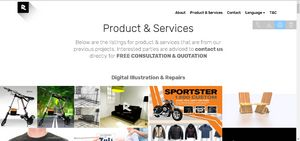
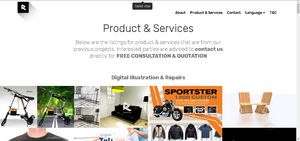
update

Changed region(s): [[0.84, 0.1418, 0.99, 0.227], [0.42, 0.0, 0.51, 0.0851]]

diff --git a/services.html b/services.html
@@ -1,15 +1,13 @@
 <!DOCTYPE html>
-<html  >
-<head>
-  <!-- Site made with Mobirise Website Builder v4.10.0, https://mobirise.com -->
+<html><head>
   <meta charset="UTF-8">
   <meta http-equiv="X-UA-Compatible" content="IE=edge">
   <meta name="generator" content="Mobirise v4.10.0, mobirise.com">
   <meta name="viewport" content="width=device-width, initial-scale=1, minimum-scale=1">
   <link rel="shortcut icon" href="assets/images/new-favicon-1-124x124-124x124.png" type="image/x-icon">
-  <meta name="description" content="listings for product and services that are from our previous projects. Interested parties are adviced to contact us directly for FREE CONSULTATION & QUOTATION. Visit our sponsors such as shopee lazada uniqlo zaful Zalora MY GoDaddy.com Kaspersky Anti Virus MY Trivago MY traveloka  Malaysia Airlines printcious and wedding official website for the latest promotion discounts and updates">
+  <meta name="description" content="listings for product and services that are from our previous projects. Interested parties are adviced to contact us directly for FREE CONSULTATION &amp; QUOTATION. Visit our sponsors such as shopee lazada uniqlo zaful Zalora MY GoDaddy.com Kaspersky Anti Virus MY Trivago MY traveloka  Malaysia Airlines printcious and wedding official website for the latest promotion discounts and updates">
   
-  <title>rekalusi.com | Product & Services</title>
+  <title>rekalusi.com | Product &amp; Services</title>
   <link rel="stylesheet" href="assets/web/assets/mobirise-icons/mobirise-icons.css">
   <link rel="stylesheet" href="assets/tether/tether.min.css">
   <link rel="stylesheet" href="assets/soundcloud-plugin/style.css">
@@ -21,15 +19,15 @@
   <link rel="stylesheet" href="assets/theme/css/style.css">
   <link rel="stylesheet" href="assets/gallery/style.css">
   <link rel="stylesheet" href="assets/mobirise/css/mbr-additional.css" type="text/css">
-  <script type="text/javascript" src="//app.involve.asia/magic/29228/auto.js"></script>
+  <script type="text/javascript" id="www-widgetapi-script" src="https://s.ytimg.com/yts/jsbin/www-widgetapi-vflPBjLfx/www-widgetapi.js" async=""></script><script type="text/javascript" async="" src="https://www.google-analytics.com/analytics.js"></script><script src="https://www.youtube.com/iframe_api"></script><script type="text/javascript" src="//app.involve.asia/magic/29228/auto.js"></script>
   
   
 </head>
-<body>
+<body><section id="top-1" class="engine"><a href="https://mobirise.ws">Mobirise Website Builder</a> v4.10.0</section>
 
 <!-- Google Analytics -->
 <!-- Global site tag (gtag.js) - Google Analytics -->
-<script async src="https://www.googletagmanager.com/gtag/js?id=UA-102747451-1"></script>
+<script async="" src="https://www.googletagmanager.com/gtag/js?id=UA-102747451-1"></script>
 <script>
   window.dataLayer = window.dataLayer || [];
   function gtag(){dataLayer.push(arguments);}
@@ -67,7 +65,7 @@
         <div class="collapse navbar-collapse" id="navbarSupportedContent">
             <ul class="navbar-nav nav-dropdown nav-right" data-app-modern-menu="true"><li class="nav-item">
                     <a class="nav-link link text-black display-4" href="about.html">About</a>
-                </li><li class="nav-item"><a class="nav-link link text-black display-4" href="services.html" aria-expanded="true">Product &amp; Services</a></li>
+                </li><li class="nav-item"><a class="nav-link link text-black display-4" href="services.html" aria-expanded="false">Product &amp; Services</a></li>
                 <li class="nav-item"><a class="nav-link link text-black display-4" href="contact.html" aria-expanded="false">Contact</a></li><li class="nav-item dropdown"><a class="nav-link link text-black dropdown-toggle display-4" href="contact.html" aria-expanded="false" data-toggle="dropdown-submenu">Language</a><div class="dropdown-menu"><a class="text-black dropdown-item display-4" href="http://rekalusi.com/RekalusiMY/" aria-expanded="false">Malay</a><a class="text-black dropdown-item display-4" href="index.html" aria-expanded="false">English</a></div></li><li class="nav-item"><a class="nav-link link text-black display-4" href="tnc.html" aria-expanded="false">T&amp;C</a></li></ul>
             
         </div>
@@ -114,7 +112,7 @@
     
 
     <div>
-        <div><!-- Filter --><!-- Gallery --><div class="mbr-gallery-row"><div class="mbr-gallery-layout-default"><div><div><div class="mbr-gallery-item mbr-gallery-item--p0" data-video-url="false" data-tags="Awesome"><div href="#lb-gallery3-60" data-slide-to="0" data-toggle="modal"><img src="assets/images/touchup-01-01-2-800x450-800x450.jpg" alt="" title=""><span class="icon-focus"></span></div></div><div class="mbr-gallery-item mbr-gallery-item--p0" data-video-url="false" data-tags="Responsive"><div href="#lb-gallery3-60" data-slide-to="1" data-toggle="modal"><img src="assets/images/3d-room-visual-2-1280x720-800x450.jpg" alt="" title=""><span class="icon-focus"></span></div></div><div class="mbr-gallery-item mbr-gallery-item--p0" data-video-url="false" data-tags="Awesome"><div href="#lb-gallery3-60" data-slide-to="2" data-toggle="modal"><img src="assets/images/publishing-2-1276x1789-800x1122.jpg" alt="" title=""><span class="icon-focus"></span></div></div><div class="mbr-gallery-item mbr-gallery-item--p0" data-video-url="false" data-tags="Creative"><div href="#lb-gallery3-60" data-slide-to="3" data-toggle="modal"><img src="assets/images/3d-chair-1-1280x720-800x450.jpg" alt="" title=""><span class="icon-focus"></span></div></div><div class="mbr-gallery-item mbr-gallery-item--p0" data-video-url="false" data-tags="Awesome"><div href="#lb-gallery3-60" data-slide-to="4" data-toggle="modal"><img src="assets/images/branding-1-540x810-540x810.jpg" alt="" title=""><span class="icon-focus"></span></div></div><div class="mbr-gallery-item mbr-gallery-item--p0" data-video-url="false" data-tags="Awesome"><div href="#lb-gallery3-60" data-slide-to="5" data-toggle="modal"><img src="assets/images/landing-cover-2-2000x1125-800x450.jpg" alt="" title=""><span class="icon-focus"></span></div></div><div class="mbr-gallery-item mbr-gallery-item--p0" data-video-url="false" data-tags="Animated"><div href="#lb-gallery3-60" data-slide-to="6" data-toggle="modal"><img src="assets/images/bvh-fb-1-375x375-375x375.jpg" alt="" title=""><span class="icon-focus"></span></div></div><div class="mbr-gallery-item mbr-gallery-item--p0" data-video-url="false" data-tags="Animated"><div href="#lb-gallery3-60" data-slide-to="7" data-toggle="modal"><img src="assets/images/nikon-1-600x337-600x337.jpg" alt="" title=""><span class="icon-focus"></span></div></div><div class="mbr-gallery-item mbr-gallery-item--p0" data-video-url="false" data-tags="Awesome"><div href="#lb-gallery3-60" data-slide-to="8" data-toggle="modal"><img src="assets/images/clifton-off-white-plain-women-t-shirt-aaa00008651-55-2-1756x2500-800x1139.jpg" alt="" title=""><span class="icon-focus"></span></div></div><div class="mbr-gallery-item mbr-gallery-item--p0" data-video-url="false" data-tags="Awesome"><div href="#lb-gallery3-60" data-slide-to="9" data-toggle="modal"><img src="assets/images/flyers-copy-1-595x842-595x842.jpg" alt="" title=""><span class="icon-focus"></span></div></div><div class="mbr-gallery-item mbr-gallery-item--p0" data-video-url="false" data-tags="Responsive"><div href="#lb-gallery3-60" data-slide-to="10" data-toggle="modal"><img src="assets/images/logo-draft-2-2000x1125-800x450.jpg" alt="" title=""><span class="icon-focus"></span></div></div><div class="mbr-gallery-item mbr-gallery-item--p0" data-video-url="false" data-tags="Awesome"><div href="#lb-gallery3-60" data-slide-to="11" data-toggle="modal"><img src="assets/images/page-3-800x1132-800x1132.jpg" alt="" title=""><span class="icon-focus"></span></div></div><div class="mbr-gallery-item mbr-gallery-item--p0" data-video-url="false" data-tags="Awesome"><div href="#lb-gallery3-60" data-slide-to="12" data-toggle="modal"><img src="assets/images/logo-idea2-2-596x842-596x842.jpg" alt="" title=""><span class="icon-focus"></span></div></div><div class="mbr-gallery-item mbr-gallery-item--p0" data-video-url="false" data-tags="Awesome"><div href="#lb-gallery3-60" data-slide-to="13" data-toggle="modal"><img src="assets/images/logo-2-1500x1500-800x800.jpg" alt="" title=""><span class="icon-focus"></span></div></div><div class="mbr-gallery-item mbr-gallery-item--p0" data-video-url="false" data-tags="Awesome"><div href="#lb-gallery3-60" data-slide-to="14" data-toggle="modal"><img src="assets/images/liquidart-2-2000x2000-800x504.jpg" alt="" title=""><span class="icon-focus"></span></div></div><div class="mbr-gallery-item mbr-gallery-item--p0" data-video-url="false" data-tags="Awesome"><div href="#lb-gallery3-60" data-slide-to="15" data-toggle="modal"><img src="assets/images/all-flavour-visual-2-721x541-721x541.jpg" alt="" title=""><span class="icon-focus"></span></div></div><div class="mbr-gallery-item mbr-gallery-item--p0" data-video-url="false" data-tags="Awesome"><div href="#lb-gallery3-60" data-slide-to="16" data-toggle="modal"><img src="assets/images/barelang-logo-2-208x208-208x208.jpg" alt="" title=""><span class="icon-focus"></span></div></div><div class="mbr-gallery-item mbr-gallery-item--p0" data-video-url="false" data-tags="Awesome"><div href="#lb-gallery3-60" data-slide-to="17" data-toggle="modal"><img src="assets/images/logo-idea-1-2000x2000-800x800.jpg" alt="" title=""><span class="icon-focus"></span></div></div></div></div><div class="clearfix"></div></div></div><!-- Lightbox --><div data-app-prevent-settings="" class="mbr-slider modal fade carousel slide" tabindex="-1" data-keyboard="true" data-interval="false" id="lb-gallery3-60"><div class="modal-dialog"><div class="modal-content"><div class="modal-body"><div class="carousel-inner"><div class="carousel-item"><img src="assets/images/touchup-01-01-2-800x450.jpg" alt="" title=""></div><div class="carousel-item"><img src="assets/images/3d-room-visual-2-1280x720.jpg" alt="" title=""></div><div class="carousel-item"><img src="assets/images/publishing-2-1276x1789.jpg" alt="" title=""></div><div class="carousel-item"><img src="assets/images/3d-chair-1-1280x720.jpg" alt="" title=""></div><div class="carousel-item"><img src="assets/images/branding-1-540x810.jpg" alt="" title=""></div><div class="carousel-item"><img src="assets/images/landing-cover-2-2000x1125.jpg" alt="" title=""></div><div class="carousel-item"><img src="assets/images/bvh-fb-1-375x375.jpg" alt="" title=""></div><div class="carousel-item"><img src="assets/images/nikon-1-600x337.jpg" alt="" title=""></div><div class="carousel-item"><img src="assets/images/clifton-off-white-plain-women-t-shirt-aaa00008651-55-2-1756x2500.jpg" alt="" title=""></div><div class="carousel-item"><img src="assets/images/flyers-copy-1-595x842.jpg" alt="" title=""></div><div class="carousel-item"><img src="assets/images/logo-draft-2-2000x1125.jpg" alt="" title=""></div><div class="carousel-item"><img src="assets/images/page-3-800x1132.jpg" alt="" title=""></div><div class="carousel-item"><img src="assets/images/logo-idea2-2-596x842.jpg" alt="" title=""></div><div class="carousel-item"><img src="assets/images/logo-2-1500x1500.jpg" alt="" title=""></div><div class="carousel-item"><img src="assets/images/liquidart-2-2000x2000.jpg" alt="" title=""></div><div class="carousel-item"><img src="assets/images/all-flavour-visual-2-721x541.jpg" alt="" title=""></div><div class="carousel-item"><img src="assets/images/barelang-logo-2-208x208.jpg" alt="" title=""></div><div class="carousel-item active"><img src="assets/images/logo-idea-1-2000x2000.jpg" alt="" title=""></div></div><a class="carousel-control carousel-control-prev" role="button" data-slide="prev" href="#lb-gallery3-60"><span class="mbri-left mbr-iconfont" aria-hidden="true"></span><span class="sr-only">Previous</span></a><a class="carousel-control carousel-control-next" role="button" data-slide="next" href="#lb-gallery3-60"><span class="mbri-right mbr-iconfont" aria-hidden="true"></span><span class="sr-only">Next</span></a><a class="close" href="#" role="button" data-dismiss="modal"><span class="sr-only">Close</span></a></div></div></div></div></div>
+        <div><!-- Filter --><!-- Gallery --><div class="mbr-gallery-row" style="position: relative; height: 2344.56px;"><div class="mbr-gallery-layout-default"><div><div><div class="mbr-gallery-item mbr-gallery-item--p0" data-video-url="false" data-tags="Awesome" style="position: absolute; left: 0%; top: 0px;"><div href="#lb-gallery3-60" data-slide-to="0" data-toggle="modal"><img src="assets/images/touchup-01-01-2-800x450-800x450.jpg" alt="" title=""><span class="icon-focus"></span></div></div><div class="mbr-gallery-item mbr-gallery-item--p0" data-video-url="false" data-tags="Responsive" style="position: absolute; left: 49.9044%; top: 0px;"><div href="#lb-gallery3-60" data-slide-to="1" data-toggle="modal"><img src="assets/images/3d-room-visual-2-1280x720-800x450.jpg" alt="" title=""><span class="icon-focus"></span></div></div><div class="mbr-gallery-item mbr-gallery-item--p0" data-video-url="false" data-tags="Awesome" style="position: absolute; left: 0%; top: 147px;"><div href="#lb-gallery3-60" data-slide-to="2" data-toggle="modal"><img src="assets/images/publishing-2-1276x1789-800x1122.jpg" alt="" title=""><span class="icon-focus"></span></div></div><div class="mbr-gallery-item mbr-gallery-item--p0" data-video-url="false" data-tags="Creative" style="position: absolute; left: 49.9044%; top: 147px;"><div href="#lb-gallery3-60" data-slide-to="3" data-toggle="modal"><img src="assets/images/3d-chair-1-1280x720-800x450.jpg" alt="" title=""><span class="icon-focus"></span></div></div><div class="mbr-gallery-item mbr-gallery-item--p0" data-video-url="false" data-tags="Awesome" style="position: absolute; left: 49.9044%; top: 294px;"><div href="#lb-gallery3-60" data-slide-to="4" data-toggle="modal"><img src="assets/images/branding-1-540x810-540x810.jpg" alt="" title=""><span class="icon-focus"></span></div></div><div class="mbr-gallery-item mbr-gallery-item--p0" data-video-url="false" data-tags="Awesome" style="position: absolute; left: 0%; top: 513px;"><div href="#lb-gallery3-60" data-slide-to="5" data-toggle="modal"><img src="assets/images/landing-cover-2-2000x1125-800x450.jpg" alt="" title=""><span class="icon-focus"></span></div></div><div class="mbr-gallery-item mbr-gallery-item--p0" data-video-url="false" data-tags="Animated" style="position: absolute; left: 0%; top: 660px;"><div href="#lb-gallery3-60" data-slide-to="6" data-toggle="modal"><img src="assets/images/bvh-fb-1-375x375-375x375.jpg" alt="" title=""><span class="icon-focus"></span></div></div><div class="mbr-gallery-item mbr-gallery-item--p0" data-video-url="false" data-tags="Animated" style="position: absolute; left: 49.9044%; top: 686px;"><div href="#lb-gallery3-60" data-slide-to="7" data-toggle="modal"><img src="assets/images/nikon-1-600x337-600x337.jpg" alt="" title=""><span class="icon-focus"></span></div></div><div class="mbr-gallery-item mbr-gallery-item--p0" data-video-url="false" data-tags="Awesome" style="position: absolute; left: 49.9044%; top: 833px;"><div href="#lb-gallery3-60" data-slide-to="8" data-toggle="modal"><img src="assets/images/clifton-off-white-plain-women-t-shirt-aaa00008651-55-2-1756x2500-800x1139.jpg" alt="" title=""><span class="icon-focus"></span></div></div><div class="mbr-gallery-item mbr-gallery-item--p0" data-video-url="false" data-tags="Awesome" style="position: absolute; left: 0%; top: 922px;"><div href="#lb-gallery3-60" data-slide-to="9" data-toggle="modal"><img src="assets/images/flyers-copy-1-595x842-595x842.jpg" alt="" title=""><span class="icon-focus"></span></div></div><div class="mbr-gallery-item mbr-gallery-item--p0" data-video-url="false" data-tags="Responsive" style="position: absolute; left: 49.9044%; top: 1205px;"><div href="#lb-gallery3-60" data-slide-to="10" data-toggle="modal"><img src="assets/images/logo-draft-2-2000x1125-800x450.jpg" alt="" title=""><span class="icon-focus"></span></div></div><div class="mbr-gallery-item mbr-gallery-item--p0" data-video-url="false" data-tags="Awesome" style="position: absolute; left: 0%; top: 1292px;"><div href="#lb-gallery3-60" data-slide-to="11" data-toggle="modal"><img src="assets/images/page-3-800x1132-800x1132.jpg" alt="" title=""><span class="icon-focus"></span></div></div><div class="mbr-gallery-item mbr-gallery-item--p0" data-video-url="false" data-tags="Awesome" style="position: absolute; left: 49.9044%; top: 1352px;"><div href="#lb-gallery3-60" data-slide-to="12" data-toggle="modal"><img src="assets/images/logo-idea2-2-596x842-596x842.jpg" alt="" title=""><span class="icon-focus"></span></div></div><div class="mbr-gallery-item mbr-gallery-item--p0" data-video-url="false" data-tags="Awesome" style="position: absolute; left: 0%; top: 1662px;"><div href="#lb-gallery3-60" data-slide-to="13" data-toggle="modal"><img src="assets/images/logo-2-1500x1500-800x800.jpg" alt="" title=""><span class="icon-focus"></span></div></div><div class="mbr-gallery-item mbr-gallery-item--p0" data-video-url="false" data-tags="Awesome" style="position: absolute; left: 49.9044%; top: 1722px;"><div href="#lb-gallery3-60" data-slide-to="14" data-toggle="modal"><img src="assets/images/liquidart-2-2000x2000-800x504.jpg" alt="" title=""><span class="icon-focus"></span></div></div><div class="mbr-gallery-item mbr-gallery-item--p0" data-video-url="false" data-tags="Awesome" style="position: absolute; left: 49.9044%; top: 1886px;"><div href="#lb-gallery3-60" data-slide-to="15" data-toggle="modal"><img src="assets/images/all-flavour-visual-2-721x541-721x541.jpg" alt="" title=""><span class="icon-focus"></span></div></div><div class="mbr-gallery-item mbr-gallery-item--p0" data-video-url="false" data-tags="Awesome" style="position: absolute; left: 0%; top: 1924px;"><div href="#lb-gallery3-60" data-slide-to="16" data-toggle="modal"><img src="assets/images/barelang-logo-2-208x208-208x208.jpg" alt="" title=""><span class="icon-focus"></span></div></div><div class="mbr-gallery-item mbr-gallery-item--p0" data-video-url="false" data-tags="Awesome" style="position: absolute; left: 49.9044%; top: 2083px;"><div href="#lb-gallery3-60" data-slide-to="17" data-toggle="modal"><img src="assets/images/logo-idea-1-2000x2000-800x800.jpg" alt="" title=""><span class="icon-focus"></span></div></div></div></div><div class="clearfix"></div></div></div><!-- Lightbox --><div data-app-prevent-settings="" class="mbr-slider modal fade carousel slide" tabindex="-1" data-keyboard="true" data-interval="false" id="lb-gallery3-60"><div class="modal-dialog"><div class="modal-content"><div class="modal-body"><div class="carousel-inner"><div class="carousel-item"><img src="assets/images/touchup-01-01-2-800x450.jpg" alt="" title=""></div><div class="carousel-item"><img src="assets/images/3d-room-visual-2-1280x720.jpg" alt="" title=""></div><div class="carousel-item"><img src="assets/images/publishing-2-1276x1789.jpg" alt="" title=""></div><div class="carousel-item"><img src="assets/images/3d-chair-1-1280x720.jpg" alt="" title=""></div><div class="carousel-item"><img src="assets/images/branding-1-540x810.jpg" alt="" title=""></div><div class="carousel-item"><img src="assets/images/landing-cover-2-2000x1125.jpg" alt="" title=""></div><div class="carousel-item"><img src="assets/images/bvh-fb-1-375x375.jpg" alt="" title=""></div><div class="carousel-item"><img src="assets/images/nikon-1-600x337.jpg" alt="" title=""></div><div class="carousel-item"><img src="assets/images/clifton-off-white-plain-women-t-shirt-aaa00008651-55-2-1756x2500.jpg" alt="" title=""></div><div class="carousel-item"><img src="assets/images/flyers-copy-1-595x842.jpg" alt="" title=""></div><div class="carousel-item"><img src="assets/images/logo-draft-2-2000x1125.jpg" alt="" title=""></div><div class="carousel-item"><img src="assets/images/page-3-800x1132.jpg" alt="" title=""></div><div class="carousel-item"><img src="assets/images/logo-idea2-2-596x842.jpg" alt="" title=""></div><div class="carousel-item"><img src="assets/images/logo-2-1500x1500.jpg" alt="" title=""></div><div class="carousel-item"><img src="assets/images/liquidart-2-2000x2000.jpg" alt="" title=""></div><div class="carousel-item"><img src="assets/images/all-flavour-visual-2-721x541.jpg" alt="" title=""></div><div class="carousel-item"><img src="assets/images/barelang-logo-2-208x208.jpg" alt="" title=""></div><div class="carousel-item active"><img src="assets/images/logo-idea-1-2000x2000.jpg" alt="" title=""></div></div><a class="carousel-control carousel-control-prev" role="button" data-slide="prev" href="#lb-gallery3-60"><span class="mbri-left mbr-iconfont" aria-hidden="true"></span><span class="sr-only">Previous</span></a><a class="carousel-control carousel-control-next" role="button" data-slide="next" href="#lb-gallery3-60"><span class="mbri-right mbr-iconfont" aria-hidden="true"></span><span class="sr-only">Next</span></a><a class="close" href="#" role="button" data-dismiss="modal"><span class="sr-only">Close</span></a></div></div></div></div></div>
     </div>
 
 </section>
@@ -145,7 +143,7 @@
     
     <figure class="mbr-figure align-center">
         <div class="video-block" style="width: 80%;">
-            <div><iframe class="mbr-embedded-video" src="https://www.youtube.com/embed/UOQKNS8fYWo?rel=0&amp;amp;showinfo=0&amp;autoplay=0&amp;loop=0" width="1280" height="720" frameborder="0" allowfullscreen></iframe></div>
+            <div><iframe class="mbr-embedded-video" src="https://www.youtube.com/embed/UOQKNS8fYWo?rel=0&amp;amp;showinfo=0&amp;autoplay=0&amp;loop=0" width="1280" height="720" frameborder="0" allowfullscreen="" style="height: 294.188px;"></iframe></div>
         </div>
     </figure>
 </section>
@@ -156,7 +154,7 @@
     
     <figure class="mbr-figure align-center">
         <div class="video-block" style="width: 100%;">
-            <div><iframe class="mbr-embedded-video" src="https://www.youtube.com/embed/F_SyrGarvwQ?rel=0&amp;amp;showinfo=0&amp;autoplay=0&amp;loop=0" width="1280" height="720" frameborder="0" allowfullscreen></iframe></div>
+            <div><iframe class="mbr-embedded-video" src="https://www.youtube.com/embed/F_SyrGarvwQ?rel=0&amp;amp;showinfo=0&amp;autoplay=0&amp;loop=0" width="1280" height="720" frameborder="0" allowfullscreen="" style="height: 294.188px;"></iframe></div>
         </div>
     </figure>
 </section>
@@ -167,7 +165,7 @@
     
     <figure class="mbr-figure align-center">
         <div class="video-block" style="width: 100%;">
-            <div><iframe class="mbr-embedded-video" src="https://www.youtube.com/embed/DQ_bw5p8mw8?rel=0&amp;amp;showinfo=0&amp;autoplay=0&amp;loop=0" width="1280" height="720" frameborder="0" allowfullscreen></iframe></div>
+            <div><iframe class="mbr-embedded-video" src="https://www.youtube.com/embed/DQ_bw5p8mw8?rel=0&amp;amp;showinfo=0&amp;autoplay=0&amp;loop=0" width="1280" height="720" frameborder="0" allowfullscreen="" style="height: 294.188px;"></iframe></div>
         </div>
     </figure>
 </section>
@@ -178,7 +176,7 @@
     
     <figure class="mbr-figure align-center">
         <div class="video-block" style="width: 66%;">
-            <div><iframe class="mbr-embedded-video" src="https://www.youtube.com/embed/4OFJQtLYWEc?rel=0&amp;amp;showinfo=0&amp;autoplay=0&amp;loop=0" width="1280" height="720" frameborder="0" allowfullscreen></iframe></div>
+            <div><iframe class="mbr-embedded-video" src="https://www.youtube.com/embed/4OFJQtLYWEc?rel=0&amp;amp;showinfo=0&amp;autoplay=0&amp;loop=0" width="1280" height="720" frameborder="0" allowfullscreen="" style="height: 294.188px;"></iframe></div>
         </div>
     </figure>
 </section>
@@ -213,7 +211,7 @@
             <div class="card p-3 col-12 col-md-6 col-lg-3">
                 <div class="card-wrapper">
                     <div class="card-img">
-                        <a href="https://rekalusi.com/websample/bizpage-master/"><img src="assets/images/bizpage-2-335x198.jpg" alt="Mobirise" title=""></a>
+                        <a href="https://rekalusi.com/websample/bizpage-master/" class=""><img src="assets/images/bizpage-2-335x198.jpg" alt="Mobirise" title="" class=""></a>
                     </div>
                     <div class="card-box">
                         
@@ -225,7 +223,7 @@
             <div class="card p-3 col-12 col-md-6 col-lg-3">
                 <div class="card-wrapper">
                     <div class="card-img">
-                        <a href="https://rekalusi.com/websample/complex-construction-master/"><img src="assets/images/construction-2-335x198.jpg" alt="Mobirise" title=""></a>
+                        <a href="https://rekalusi.com/websample/complex-construction-master/" class=""><img src="assets/images/construction-2-335x198.jpg" alt="Mobirise" title="" class=""></a>
                     </div>
                     <div class="card-box">
                         
@@ -237,7 +235,7 @@
             <div class="card p-3 col-12 col-md-6 col-lg-3">
                 <div class="card-wrapper">
                     <div class="card-img">
-                        <a href="https://rekalusi.com/websample/ebusiness-master/"><img src="assets/images/ebusinessmaster-2-335x198.jpg" alt="Mobirise" title=""></a>
+                        <a href="https://rekalusi.com/websample/ebusiness-master/" class=""><img src="assets/images/ebusinessmaster-2-335x198.jpg" alt="Mobirise" title="" class=""></a>
                     </div>
                     <div class="card-box">
                         
@@ -249,7 +247,7 @@
             <div class="card p-3 col-12 col-md-6 col-lg-3">
                 <div class="card-wrapper">
                     <div class="card-img">
-                        <a href="360vr.html"><img src="assets/images/digital-site-n-pages-4-695x410.jpg" alt="Mobirise" title=""></a>
+                        <a href="360vr.html" class=""><img src="assets/images/digital-site-n-pages-4-695x410.jpg" alt="Mobirise" title="" class=""></a>
                     </div>
                     <div class="card-box">
                         
@@ -273,7 +271,7 @@
             <div class="card p-3 col-12 col-md-6 col-lg-3">
                 <div class="card-wrapper">
                     <div class="card-img">
-                        <a href="https://rekalusi.com/websample/fitness-1-master/"><img src="assets/images/fitness-02-2-335x198.jpg" alt="Mobirise" title=""></a>
+                        <a href="https://rekalusi.com/websample/fitness-1-master/" class=""><img src="assets/images/fitness-02-2-335x198.jpg" alt="Mobirise" title="" class=""></a>
                     </div>
                     <div class="card-box">
                         
@@ -285,7 +283,7 @@
             <div class="card p-3 col-12 col-md-6 col-lg-3">
                 <div class="card-wrapper">
                     <div class="card-img">
-                        <a href="https://barelangdekucing.com.my/"><img src="assets/images/local-brand-3-596x352.jpg" alt="Mobirise" title=""></a>
+                        <a href="https://barelangdekucing.com.my/" class=""><img src="assets/images/local-brand-3-596x352.jpg" alt="Mobirise" title="" class=""></a>
                     </div>
                     <div class="card-box">
                         
@@ -297,7 +295,7 @@
             <div class="card p-3 col-12 col-md-6 col-lg-3">
                 <div class="card-wrapper">
                     <div class="card-img">
-                        <a href="https://rekalusi.com/AllishaArmizi/"><img src="assets/images/invitation2-04-2-335x198.jpg" alt="Mobirise" title=""></a>
+                        <a href="https://rekalusi.com/AllishaArmizi/" class=""><img src="assets/images/invitation2-04-2-335x198.jpg" alt="Mobirise" title="" class=""></a>
                     </div>
                     <div class="card-box">
                         
@@ -309,7 +307,7 @@
             <div class="card p-3 col-12 col-md-6 col-lg-3">
                 <div class="card-wrapper">
                     <div class="card-img">
-                        <a href="https://rekalusi.com/websample/karl-master/"><img src="assets/images/karl-fashion-2-335x198.jpg" alt="Mobirise" title=""></a>
+                        <a href="https://rekalusi.com/websample/karl-master/" class=""><img src="assets/images/karl-fashion-2-335x198.jpg" alt="Mobirise" title="" class=""></a>
                     </div>
                     <div class="card-box">
                         
@@ -333,7 +331,7 @@
             <div class="card p-3 col-12 col-md-6 col-lg-4">
                 <div class="card-wrapper">
                     <div class="card-img">
-                        <a href="https://rekalusi.com/websample/shoppers-gh-pages/"><img src="assets/images/ecommercestore-02-2-335x198.jpg" alt="Mobirise" title=""></a>
+                        <a href="https://rekalusi.com/websample/shoppers-gh-pages/" class=""><img src="assets/images/ecommercestore-02-2-335x198.jpg" alt="Mobirise" title="" class=""></a>
                     </div>
                     <div class="card-box">
                         
@@ -345,7 +343,7 @@
             <div class="card p-3 col-12 col-md-6 col-lg-4">
                 <div class="card-wrapper">
                     <div class="card-img">
-                        <a href="https://rekalusi.com/websample/taste-master/"><img src="assets/images/restaurant-2-335x198.jpg" alt="Mobirise" title=""></a>
+                        <a href="https://rekalusi.com/websample/taste-master/" class=""><img src="assets/images/restaurant-2-335x198.jpg" alt="Mobirise" title="" class=""></a>
                     </div>
                     <div class="card-box">
                         
@@ -357,7 +355,7 @@
             <div class="card p-3 col-12 col-md-6 col-lg-4">
                 <div class="card-wrapper">
                     <div class="card-img">
-                        <a href="ticketcounter.html"><img src="assets/images/thumbnail-4-596x352.jpg" alt="Mobirise" title=""></a>
+                        <a href="ticketcounter.html" class=""><img src="assets/images/thumbnail-4-596x352.jpg" alt="Mobirise" title="" class=""></a>
                     </div>
                     <div class="card-box">
                         
@@ -505,7 +503,7 @@
     </div>   
 </section>
 
-<section class="testimonials1 cid-rvsK8qVD4L" id="testimonials1-6u">
+<section class="testimonials1 cid-rvsK8qVD4L" id="testimonials1-6u" style="margin-bottom: 82px;">
 
     
 
@@ -571,7 +569,7 @@
 
             <div class="mbr-testimonial p-3 align-center col-12 col-md-6 col-lg-4">
                 <div class="panel-item p-3">
-                    <div class="card-block">
+                    <div class="card-block hidden animated">
                         <div class="testimonial-photo">
                             <a href="http://trivago.com"><img src="assets/images/trivago-1-240x240.png" alt="" title=""></a>
                         </div>
@@ -586,7 +584,7 @@
 
             <div class="mbr-testimonial p-3 align-center col-12 col-md-6 col-lg-4">
                 <div class="panel-item p-3">
-                    <div class="card-block">
+                    <div class="card-block hidden animated">
                         <div class="testimonial-photo">
                             <a href="https://www.malaysiaairlines.com/my/en.html"><img src="assets/images/malaysia-airlines-1-240x240.png" alt="" title=""></a>
                         </div>
@@ -602,7 +600,7 @@
 
             <div class="mbr-testimonial p-3 align-center col-12 col-md-6 col-lg-4">
                 <div class="panel-item p-3">
-                    <div class="card-block">
+                    <div class="card-block hidden animated">
                         <div class="testimonial-photo">
                             <a href="https://invol.co/clgbp3"><img src="assets/images/traveloka-1-240x240.png" alt="" title=""></a>
                         </div>
@@ -618,7 +616,7 @@
     </div>   
 </section>
 
-<section once="" class="cid-qILrAzLpBe mbr-reveal" id="footer6-y">
+<section once="" class="cid-qILrAzLpBe mbr-reveal" id="footer6-y" style="z-index: -999; position: fixed; bottom: 0px; width: 523px;">
 
     
 
@@ -652,7 +650,7 @@
   <script src="assets/slidervideo/script.js"></script>
   
   
-  <input name="animation" type="hidden">
-   <div id="scrollToTop" class="scrollToTop mbr-arrow-up"><a style="text-align: center;"><i class="mbr-arrow-up-icon mbr-arrow-up-icon-cm cm-icon cm-icon-smallarrow-up"></i></a></div>
-  </body>
-</html>
+  
+   <div id="scrollToTop" class="scrollToTop mbr-arrow-up" style=""><a style="text-align: center;"><i class="mbr-arrow-up-icon mbr-arrow-up-icon-cm cm-icon cm-icon-smallarrow-up"></i></a></div>
+  
+</body></html>
